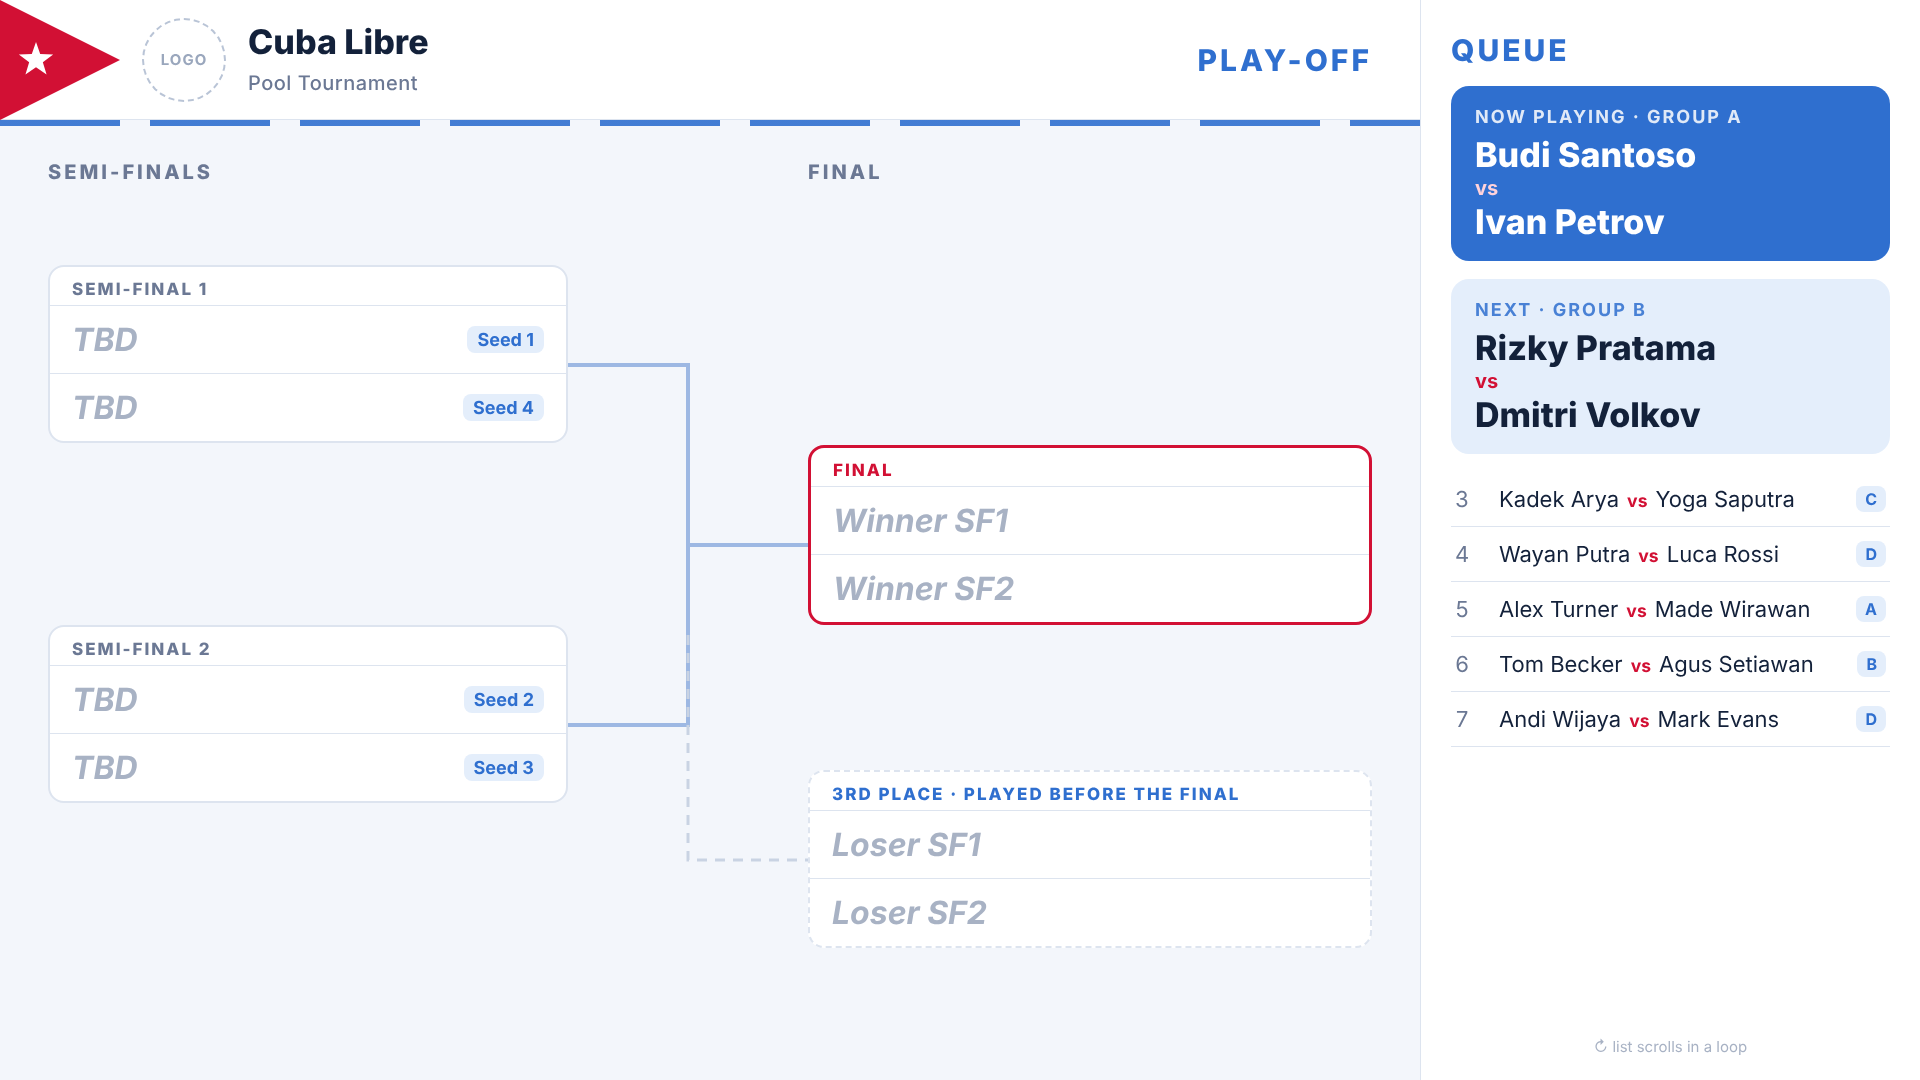
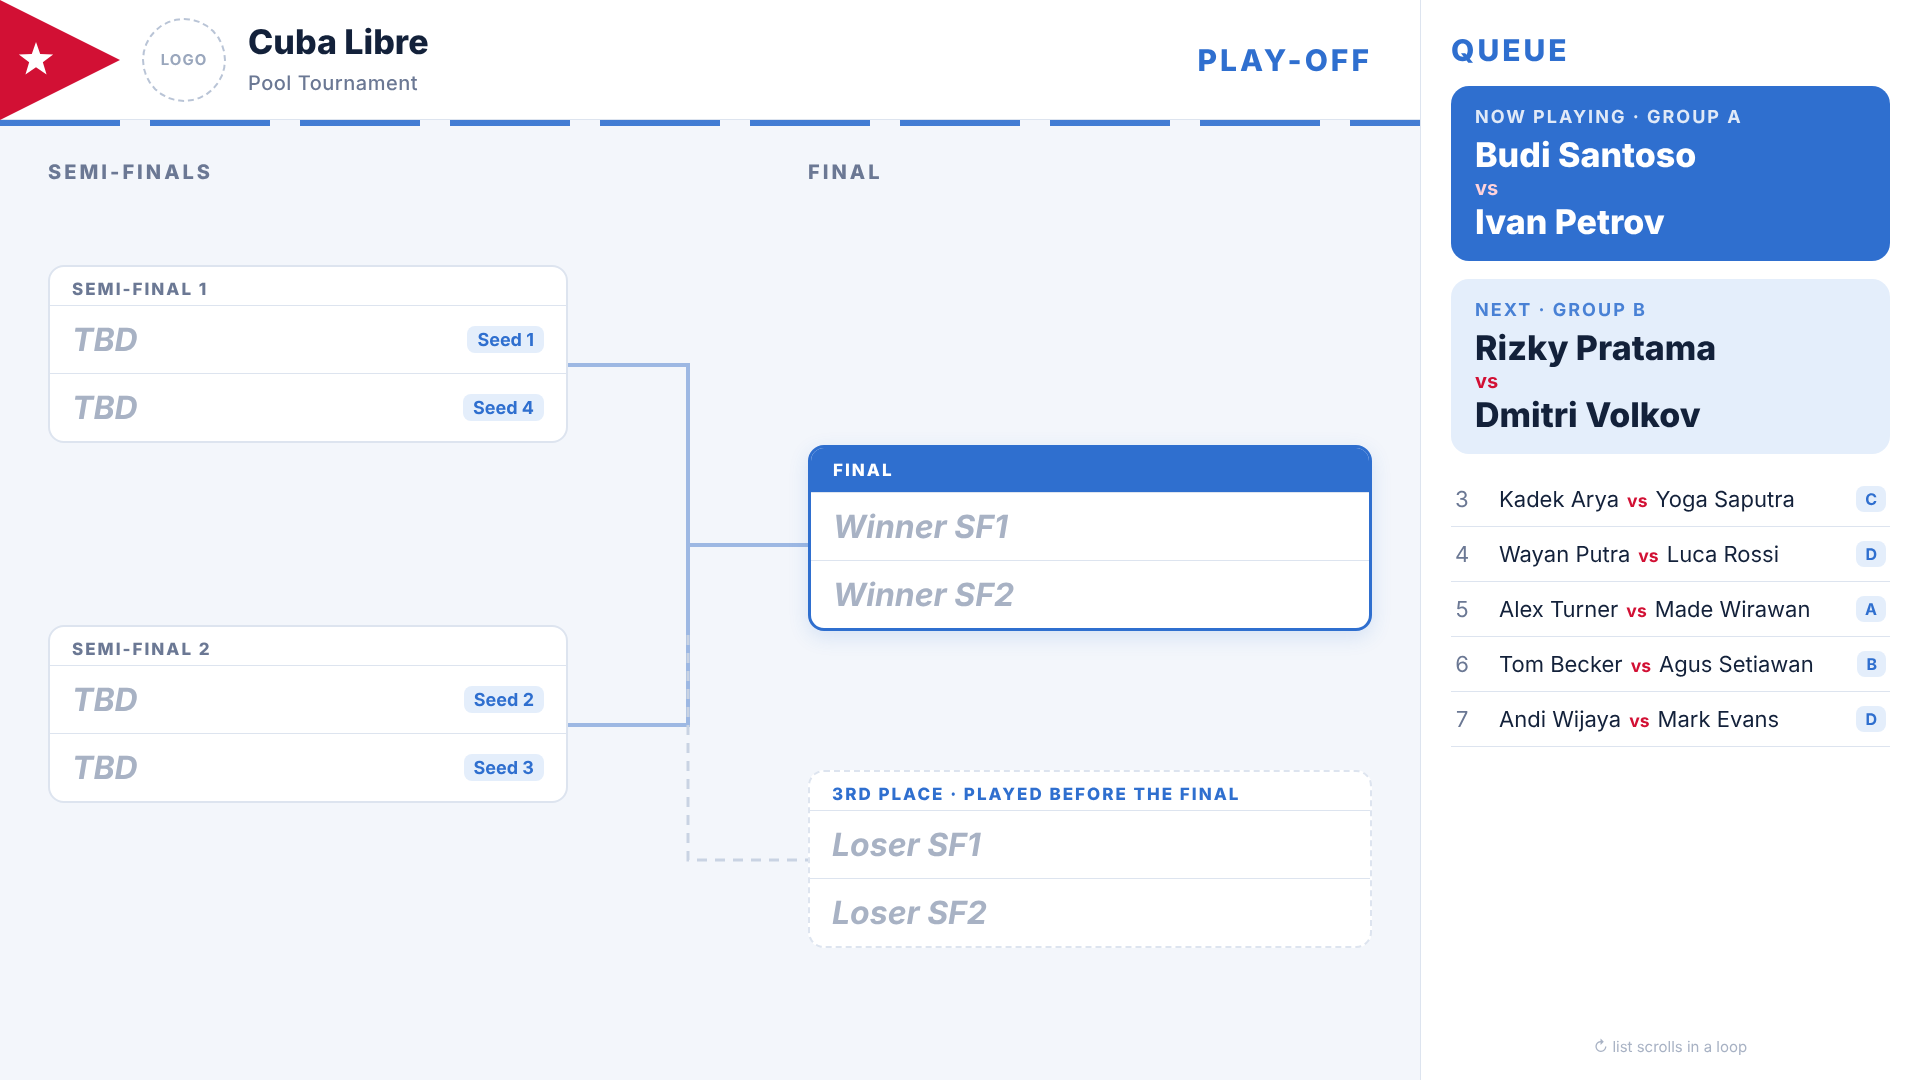
Макеты: финал без красной рамки; стартовый экран идёт до заглушки
Claude-Session: https://claude.ai/code/session_011yXgzSCi6qVWrDtUY6ogUV

Changed region(s): [[0.4062, 0.3972, 0.7188, 0.5806], [0.6875, 0.55, 0.7188, 0.5806]]

diff --git a/docs/mockups/src/tv.css b/docs/mockups/src/tv.css
@@ -98,8 +98,8 @@ table.cross td.loss { color: #111; font-weight: 600; }
 .bm .t { font-size: 17px; text-transform: uppercase; letter-spacing: 2px; color: var(--muted); font-weight: 800; padding: 12px 22px 6px; }
 .bm .p { display: flex; justify-content: space-between; align-items: center; font-size: 32px; font-weight: 700; padding: 14px 22px; color: #a8b2c4; font-style: italic; border-top: 1px solid var(--line); }
 .bm .p span.s { font-style: normal; font-size: 18px; font-weight: 700; color: var(--blue); background: var(--blue-soft); border-radius: 8px; padding: 3px 10px; }
-.bm.final { border-color: var(--red); border-width: 3px; }
-.bm.final .t { color: var(--red); }
+.bm.final { border-color: var(--blue); border-width: 3px; box-shadow: 0 6px 20px rgba(47,111,207,.15); }
+.bm.final .t { color: #fff; background: var(--blue); padding-bottom: 12px; }
 .bm.third { border-style: dashed; }
 .bm.third .t { color: var(--blue); }
 

diff --git a/docs/requirements.md b/docs/requirements.md
@@ -176,7 +176,9 @@
 - **Слайд «Все группы»** показывает максимум 4 группы. Если групп больше, оставшиеся показываются на следующем слайде (или слайдах).
 - **Слайды «Сейчас играют» и «Следующий матч»:** по центру крупно синим надпись NOW PLAYING / NEXT MATCH, имена игроков только заглавными буквами. Группа матча — в заголовке слайда.
 - **Слайд «Плей-офф»** оформлен как турнирная сетка: полуфиналы слева, линии ведут к финалу, матч за 3-е место под финалом.
-- **Стартовый экран сайта:** две кнопки — «Scoreboard» (режим табло для телевизора) и «Admin panel» (вход в админ-панель по паролю).
+- **Стартовый экран сайта:** две кнопки — «Scoreboard» (режим табло для телевизора) и «Admin panel» (вход в админ-панель по паролю). Он открывается первым, до заглушки.
+- **Порядок на телевизоре:** стартовый экран → «Scoreboard» → заглушка до старта турнира → после старта слайды по кругу.
+- **Красный цвет** не используется для рамок и выделения важных блоков: он воспринимается как ошибка. Финал в сетке выделяется синим.
 - **Справа всегда виден фиксированный блок с очередью.**
   - Следующие 2 матча выделены особенно крупно.
   - Остальные матчи медленно прокручиваются. Дойдя до конца очереди, список возвращается в начало и прокручивается снова.
